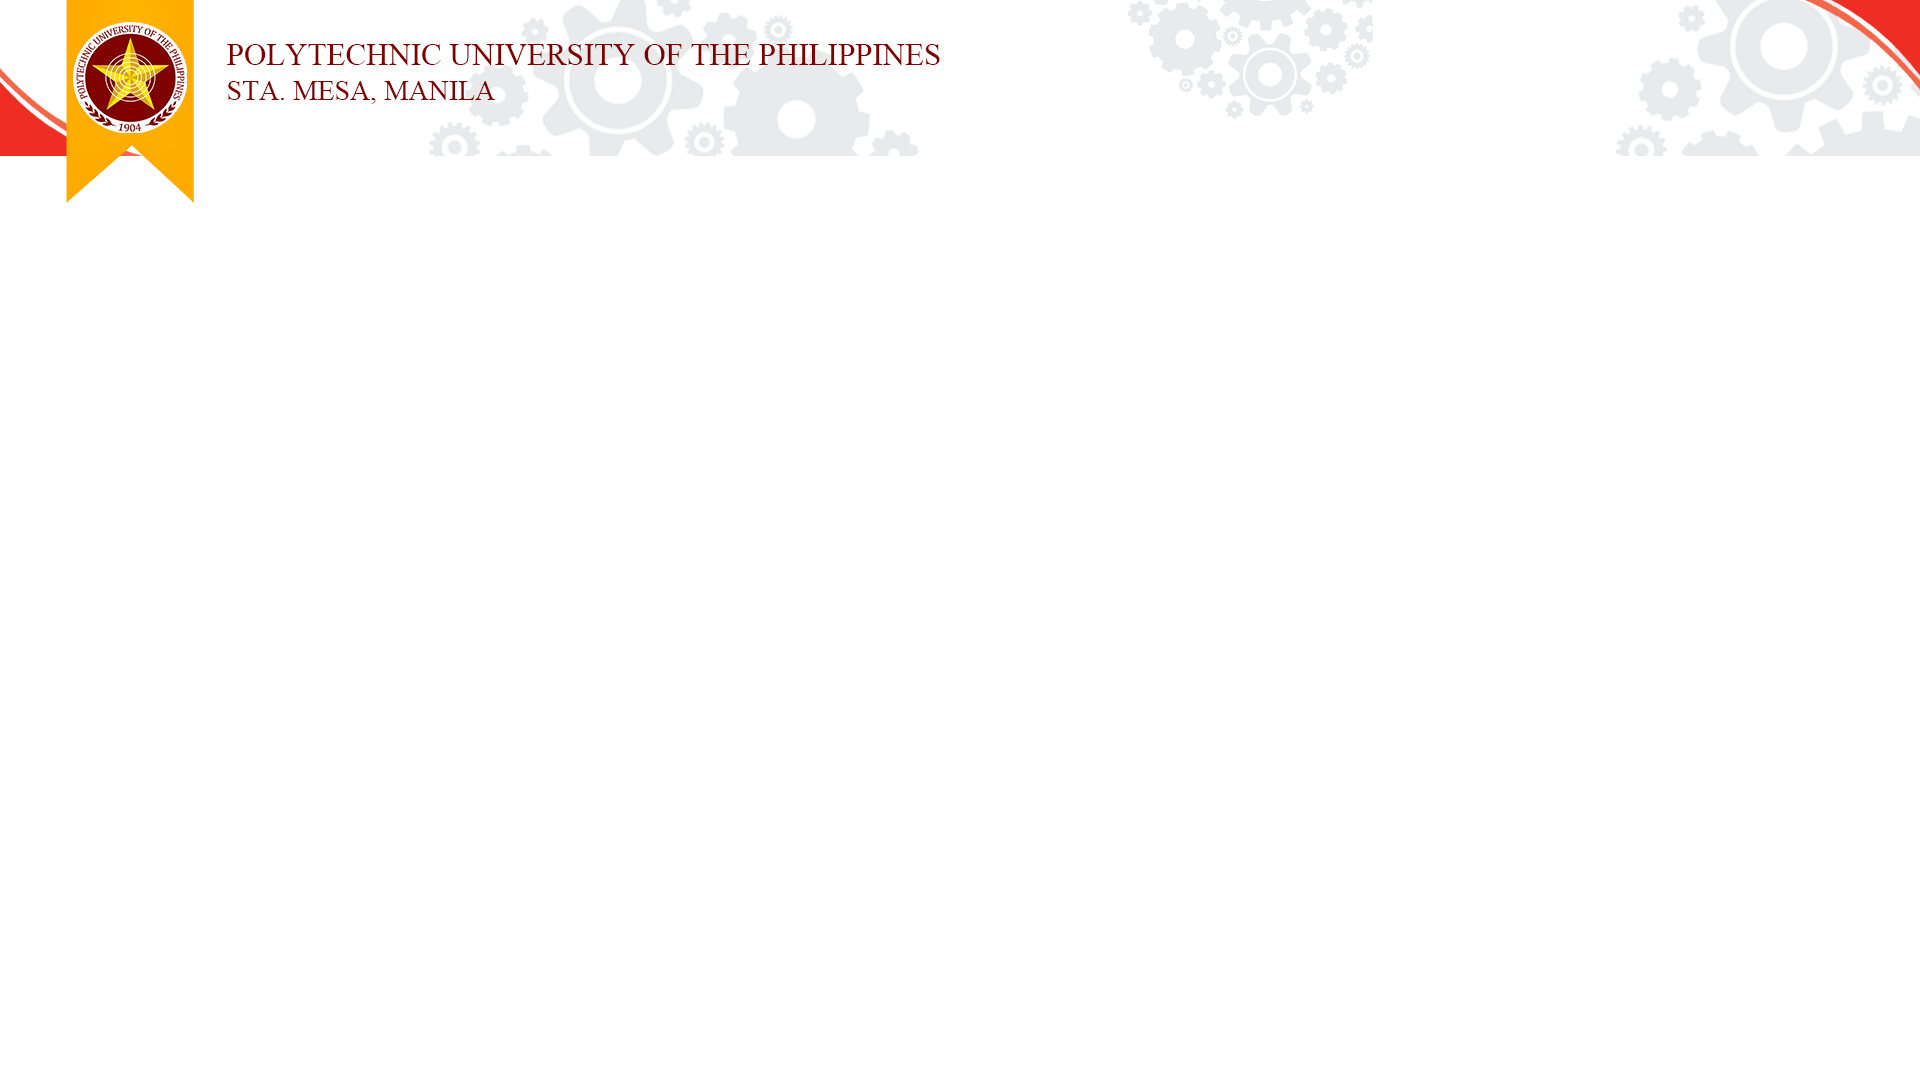
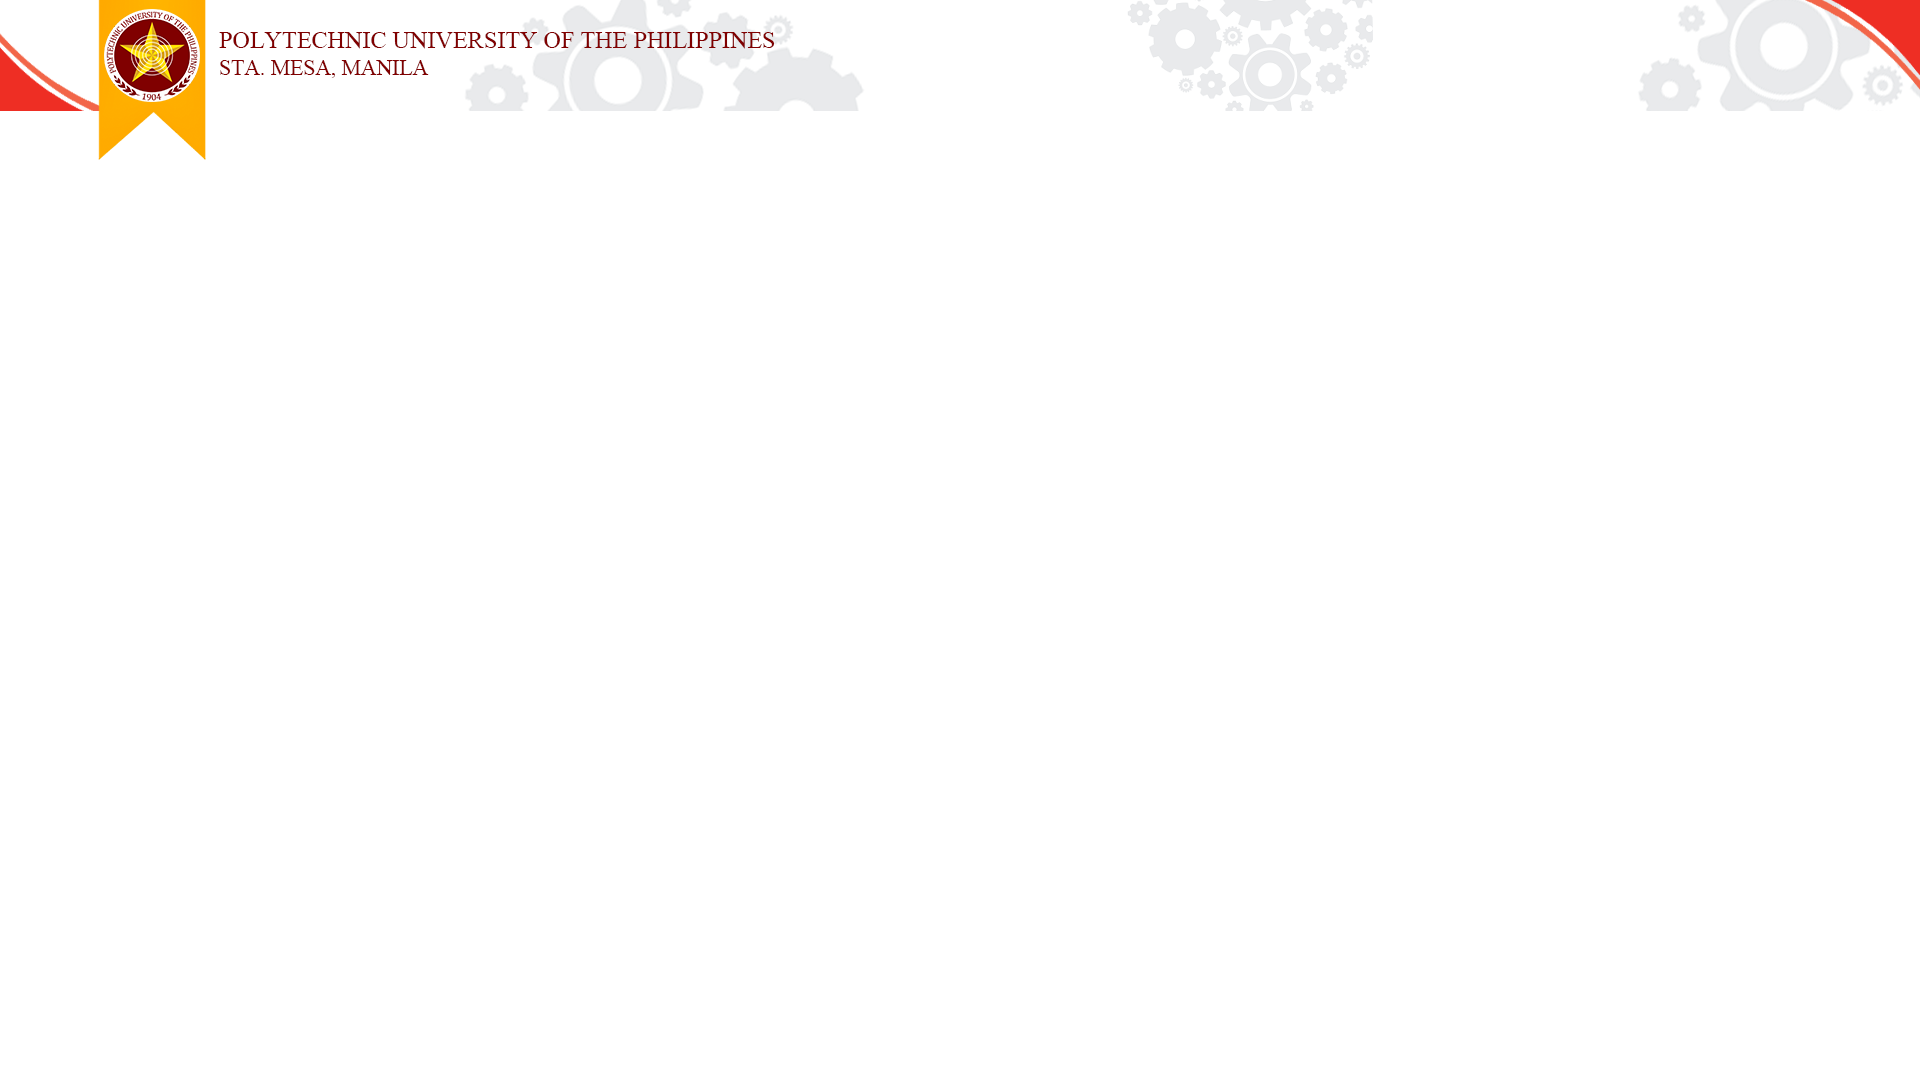
Updated header.png

Changed region(s): [[0.0, 0.0, 0.5, 0.1833]]

diff --git a/index.html b/index.html
@@ -106,14 +106,10 @@
     </style>
 </head>
 <body>
-    <ul>
-        <li>&nbsp</li>
-        <li><img src="puplogo.png" width="70"></li><br>
-        <li>&nbsp&nbsp&nbspPOLYTECHNIC UNIVERSITY OF THE PHILIPPINES</li>
-        <br>
-        <li>&nbsp&nbsp&nbspSta. Mesa Manila</li>
-    </ul>
-      
+    <div>
+        <img src='header.png'>
+    </div>
+    
     <div class="form-bg">
         <h1>Hi, PUPian!</h1>
         <h6>↓ &nbspPlease click or tap your destination </h6>
